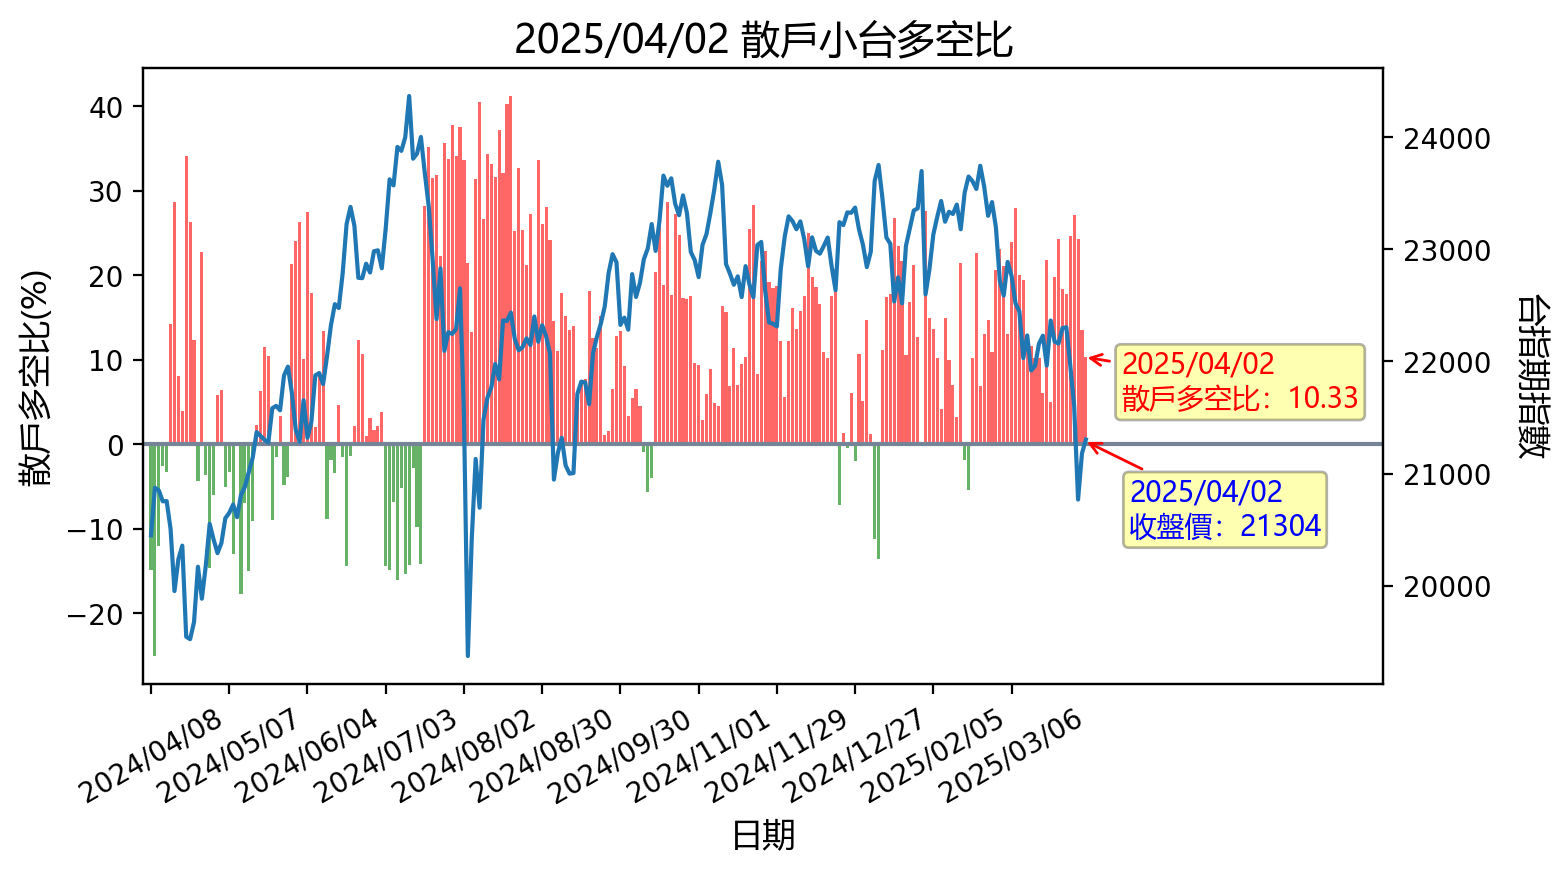
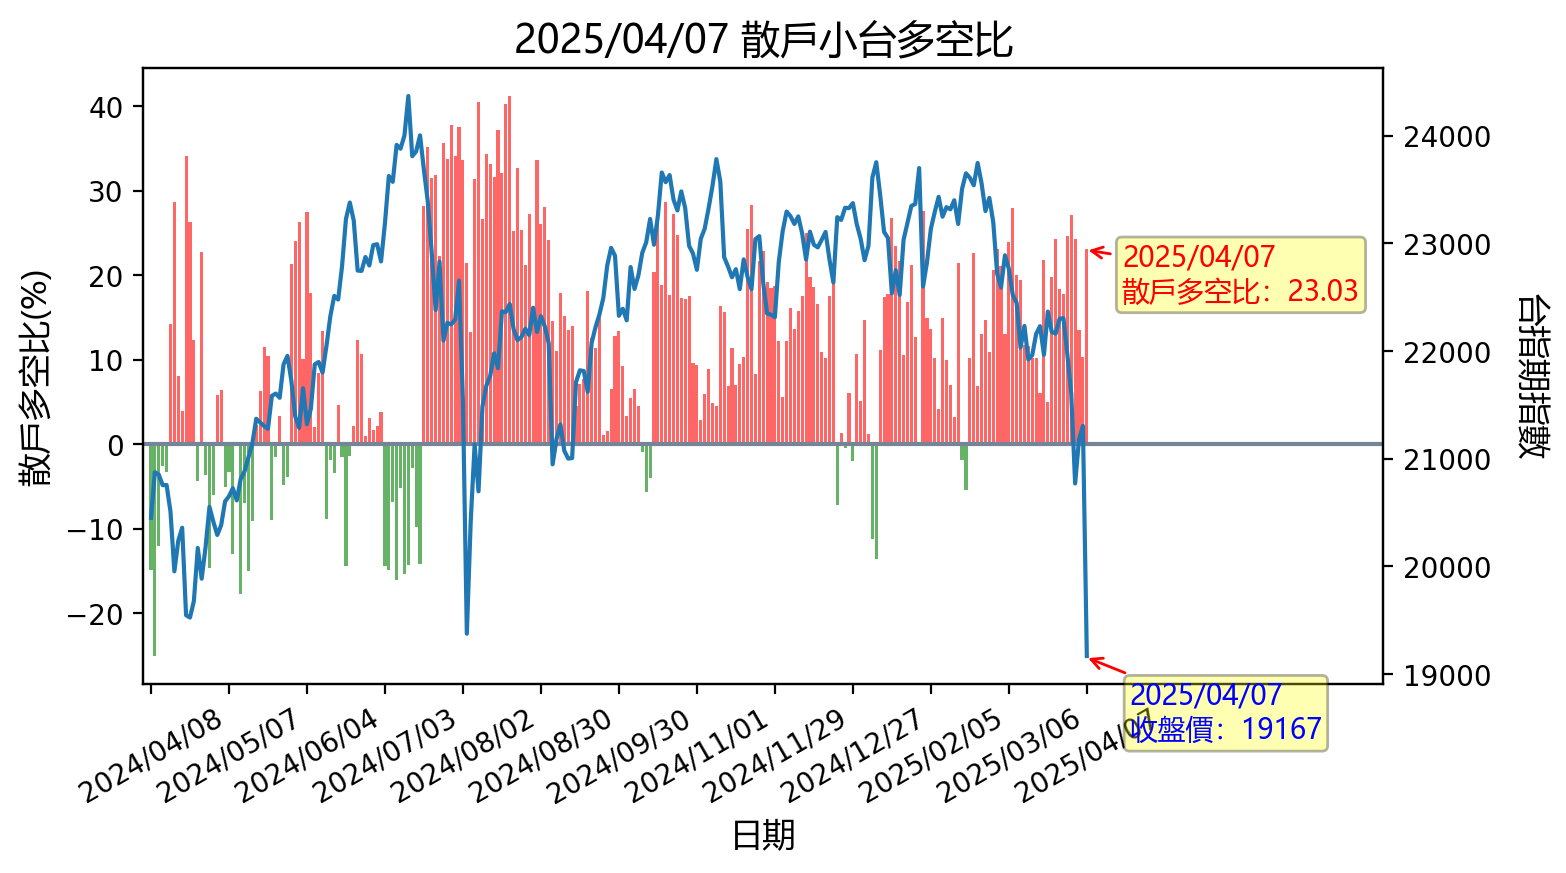
更新時間: Mon Apr  7 16:37:38 CST 2025

diff --git a/README.md b/README.md
@@ -1,12 +1,12 @@
-## 20250406 台指期「預估換倉成本」
+## 20250407 台指期「預估換倉成本」
 ![](images/txfcost.png)
 
-## 20250406 台指期「散戶小台多空比」
+## 20250407 台指期「散戶小台多空比」
 ![](images/bbiri.png)
 
-## 20250406 台指選擇權「Put/Call Ratios」
+## 20250407 台指選擇權「Put/Call Ratios」
 ![](images/pcratio.png)
 
-## 20250406 台指期「大額交易人」
+## 20250407 台指期「大額交易人」
 ![](images/blocktrade.png)
 
